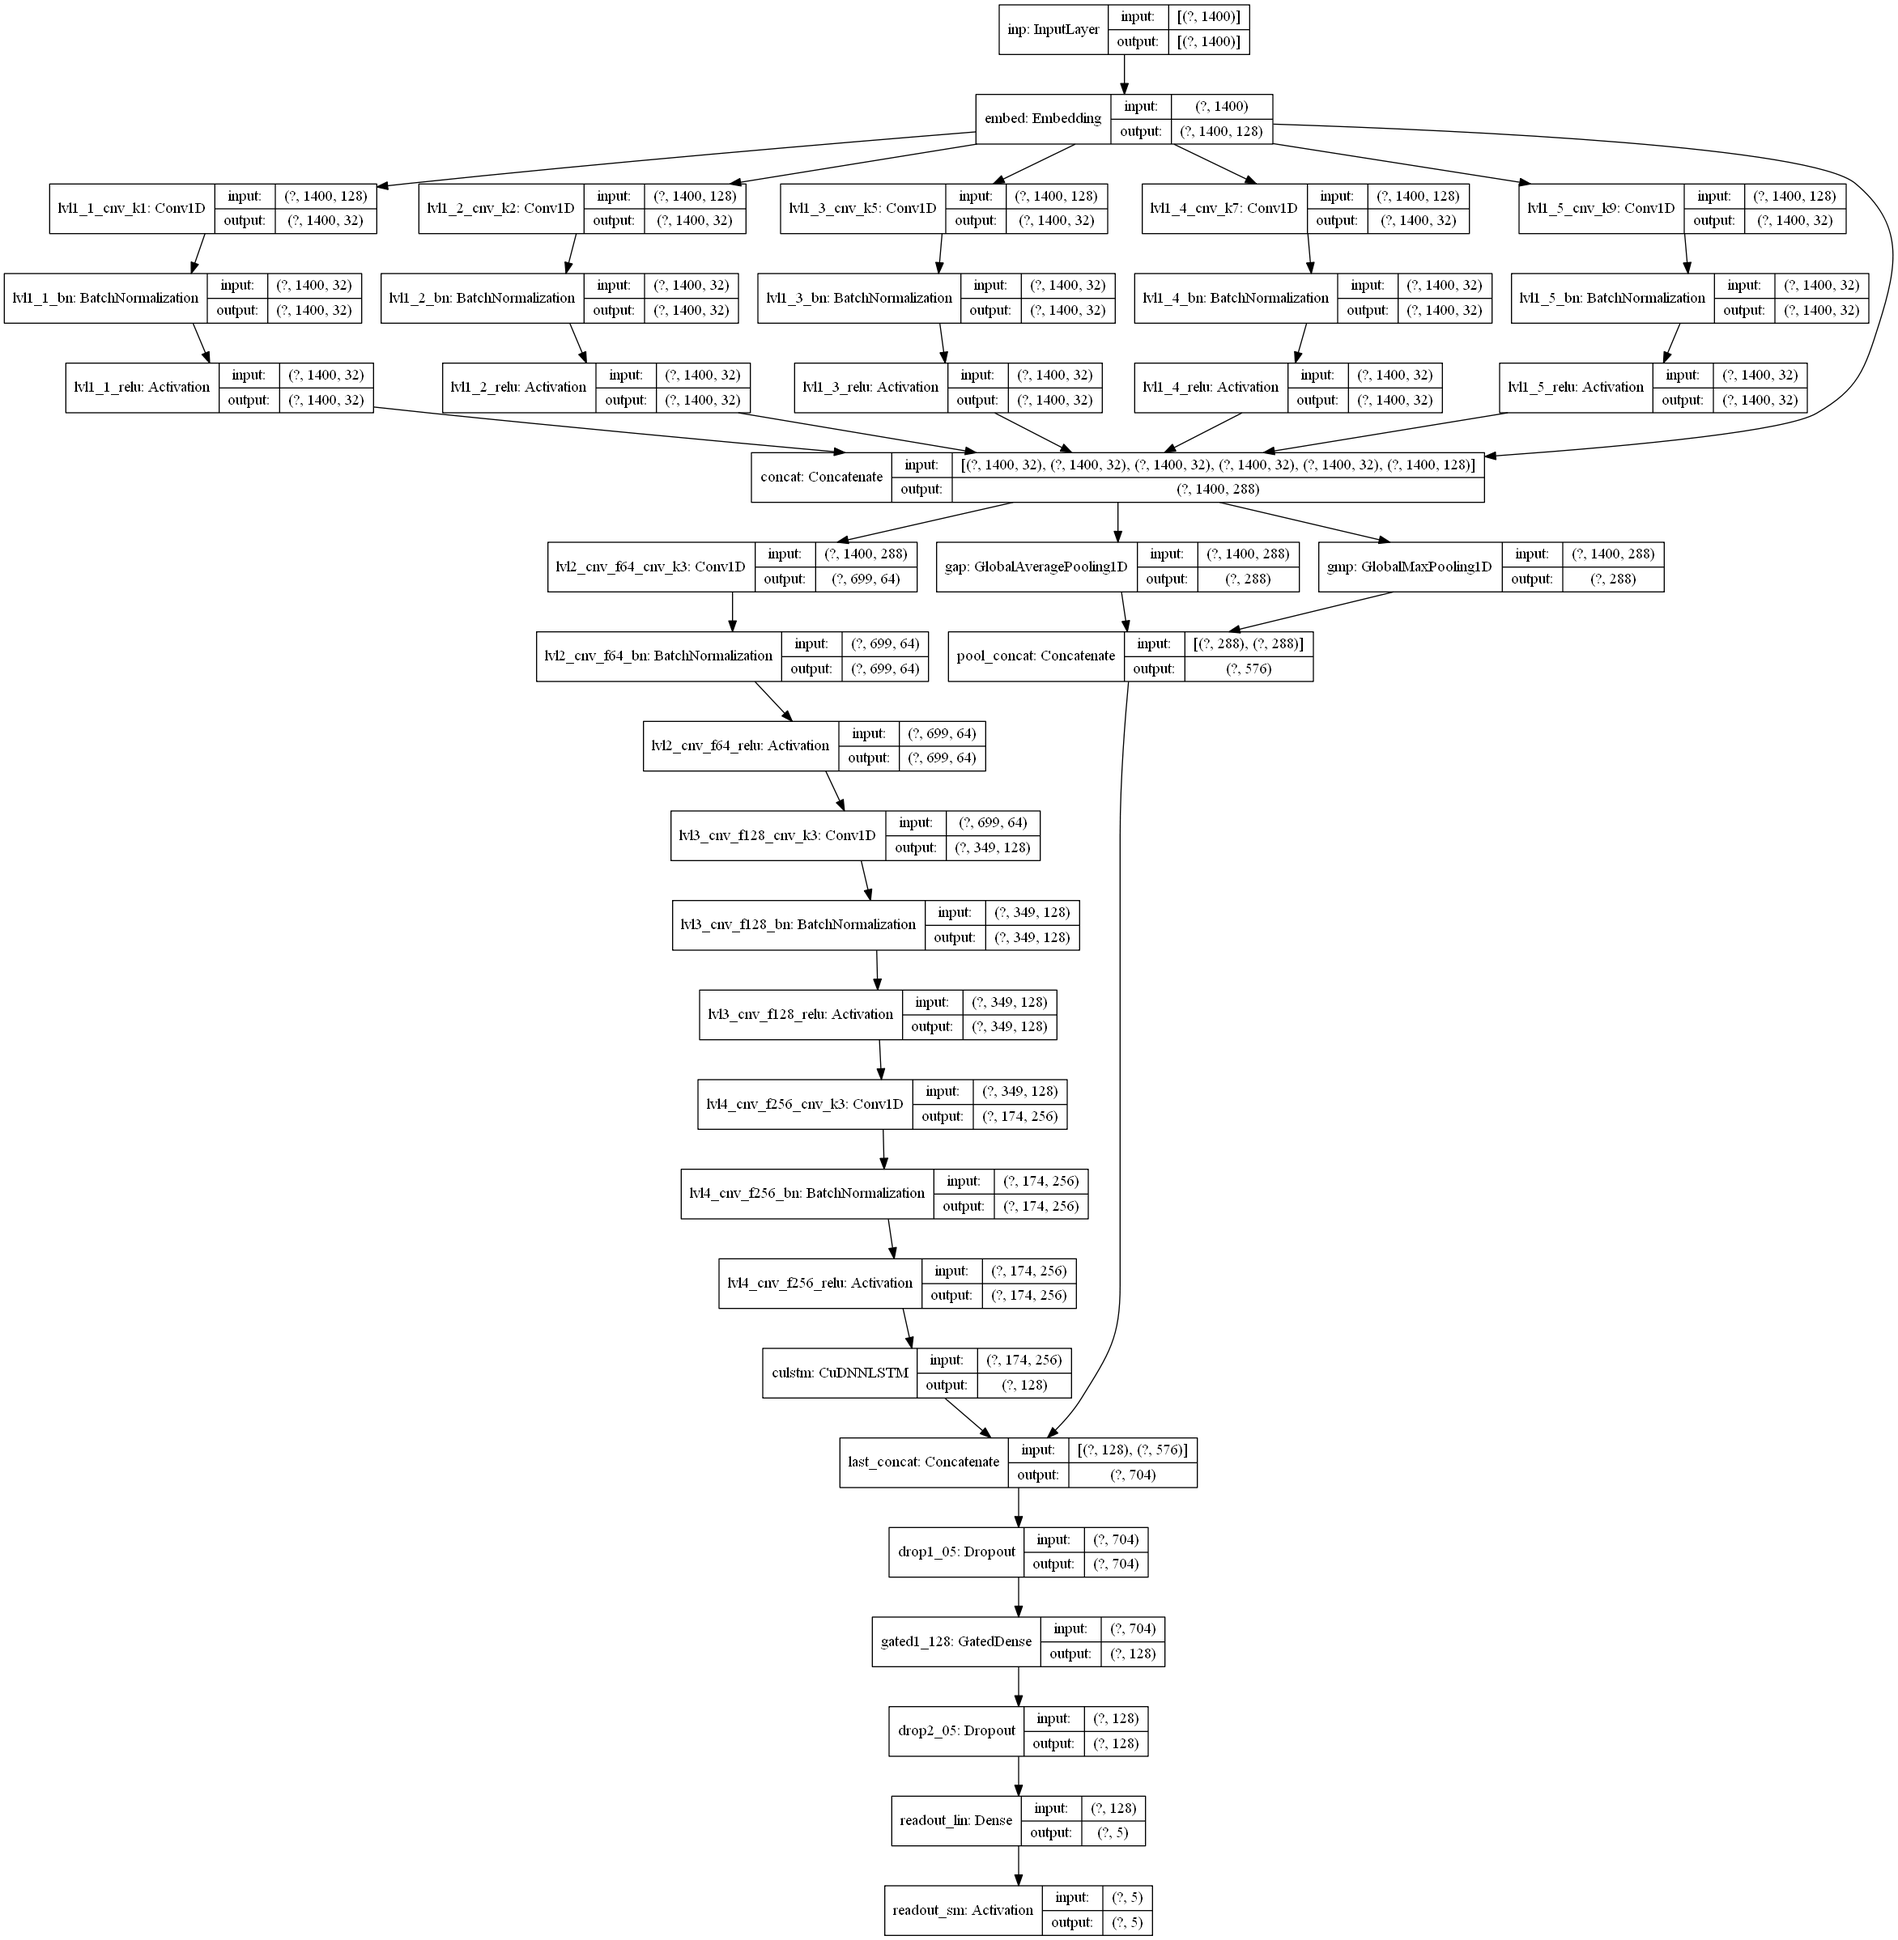
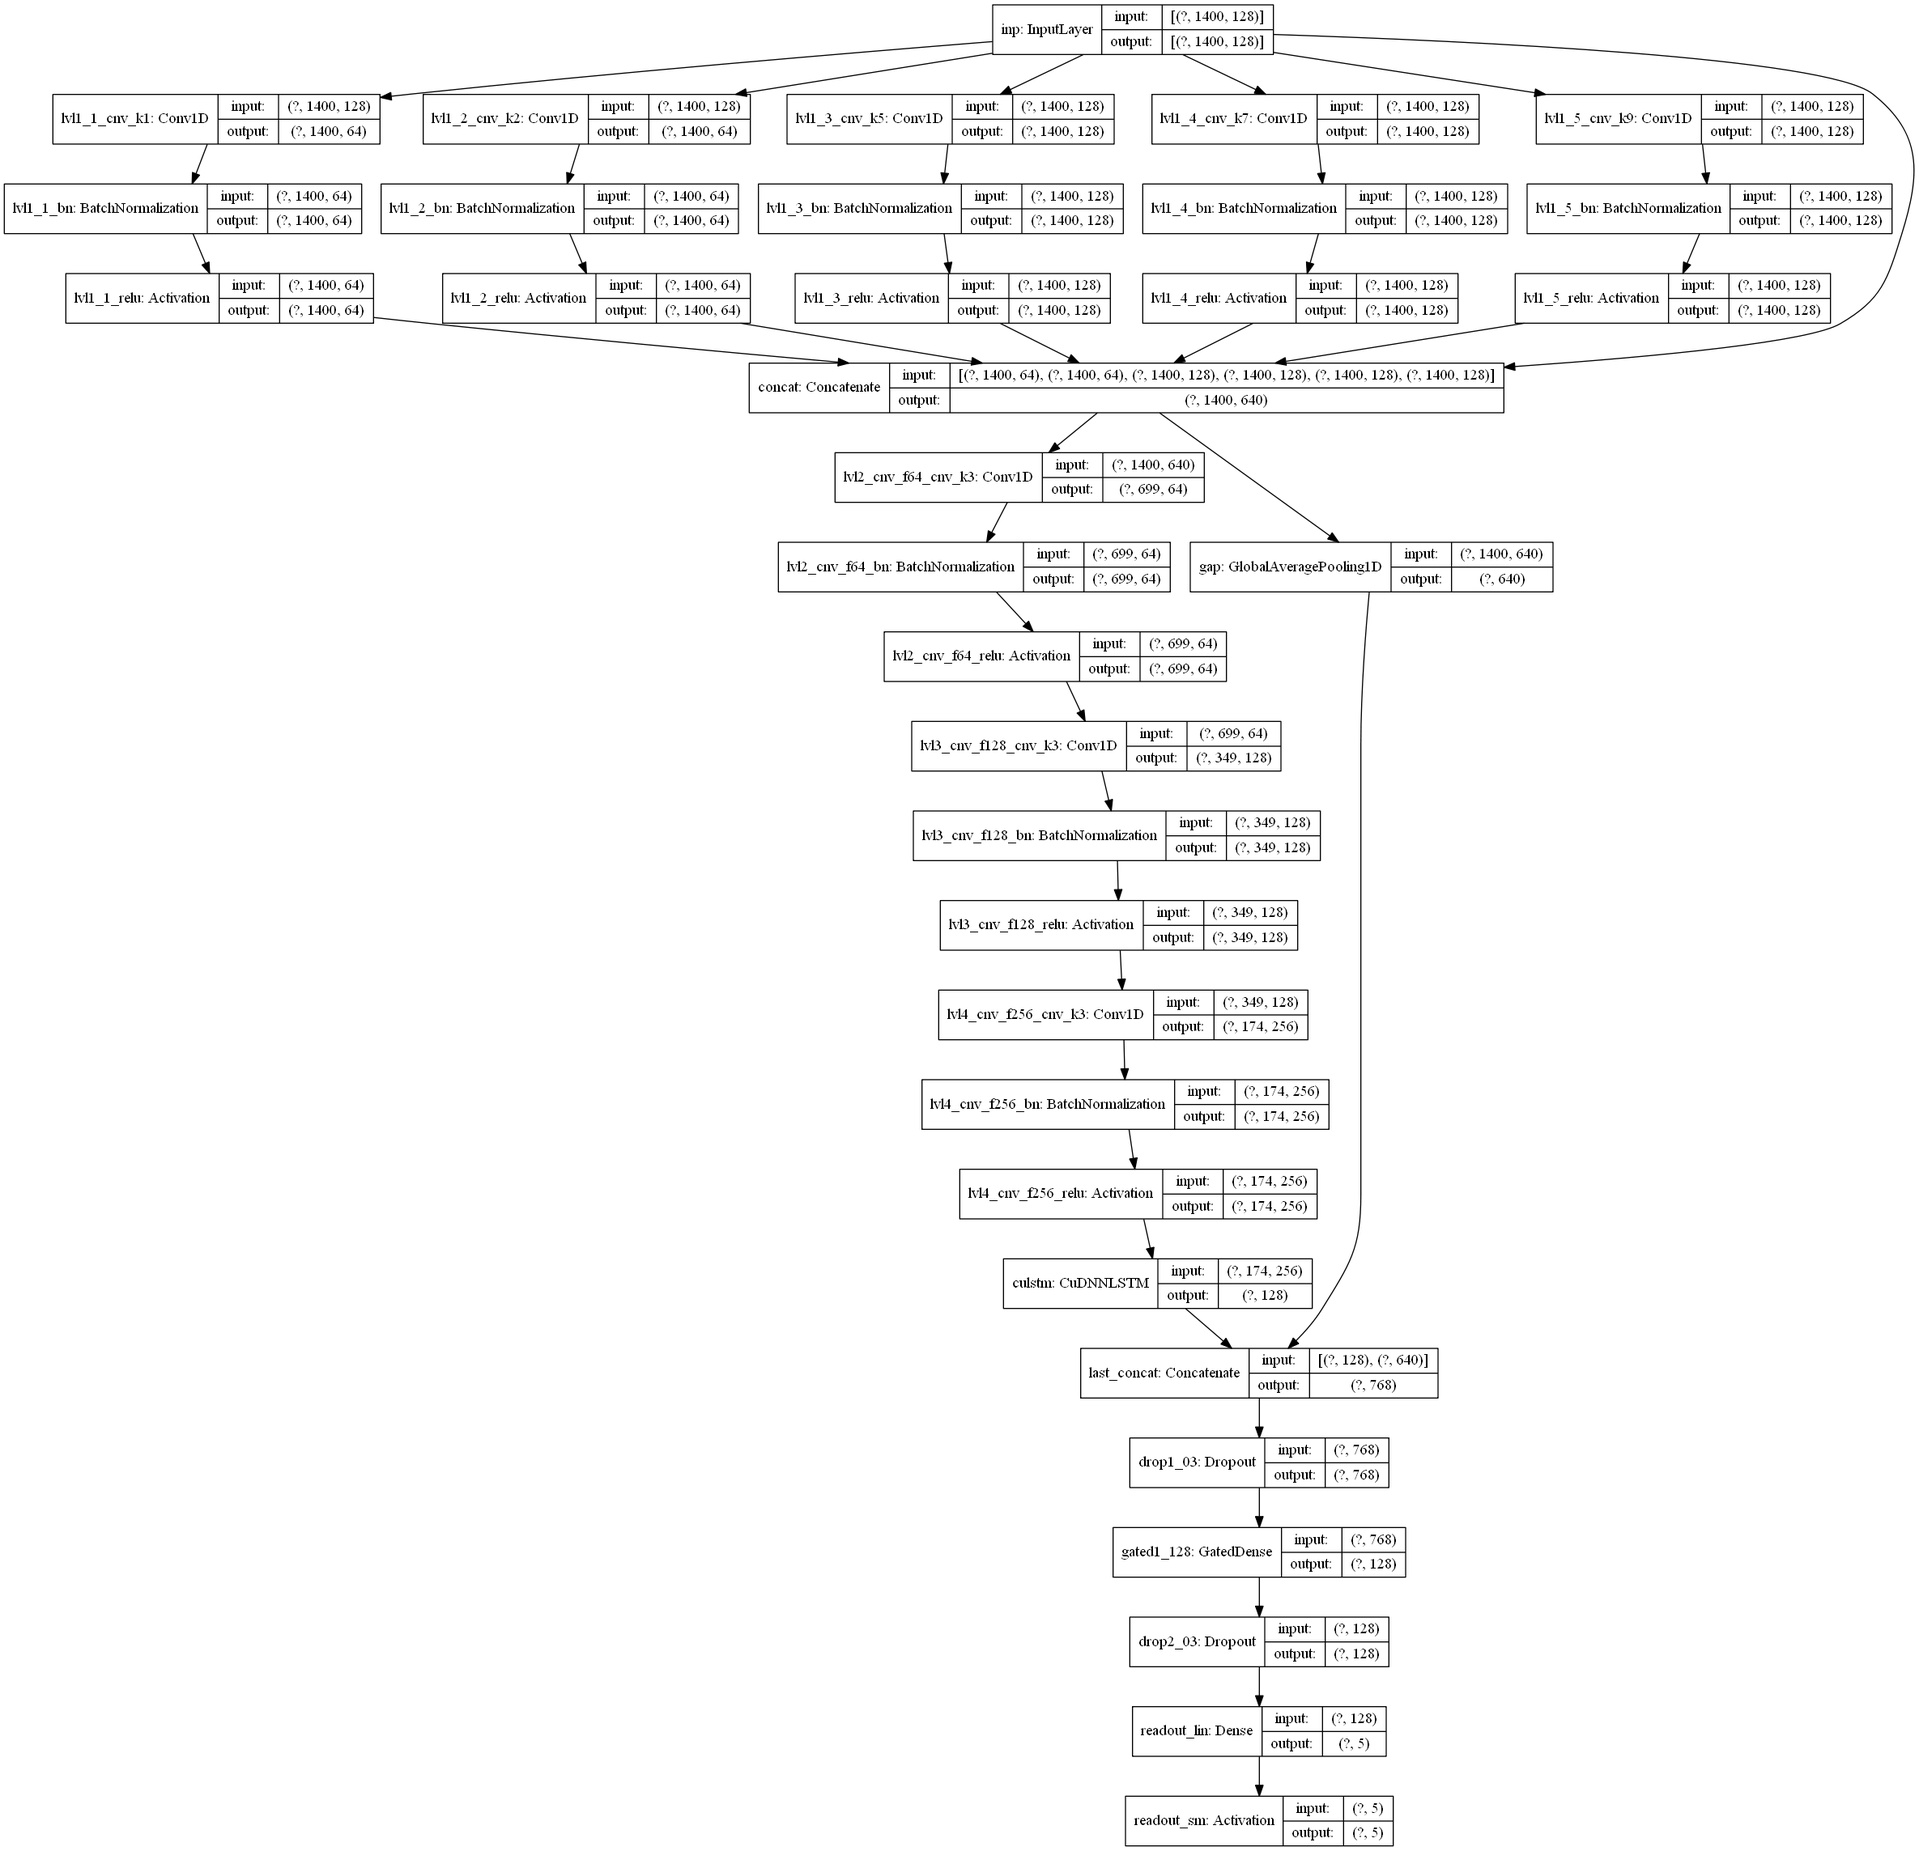
ready for grid search

Changed region(s): [[0.0, 0.0, 1.0, 1.0], [0.4672, 0.9314, 0.4983, 0.9624]]

diff --git a/tagger/brain/experiment_cvs.py b/tagger/brain/experiment_cvs.py
@@ -5,6 +5,9 @@ Created on Wed Feb 19 11:57:46 2020
 @author: damia
 """
 import numpy as np
+import tensorflow as tf
+
+import pandas as pd
 
 from libraries.logger import Logger
 from tagger.brain.cv_simple_model_generator import get_model, main_grid
@@ -12,6 +15,8 @@ from word_universe.doc_utils import DocUtils
 from functools import partial
 
 from libraries.training import Trainer
+
+from time import time
 
 
 def tokenizer(sentence, dct_vocab, unk_func=None):
@@ -80,11 +85,16 @@ def load_data(log, training_config):
 
 
 if __name__ == '__main__':
+  VER = '01'
+  
+  
+  base_name = 'ACV' + VER
+  
   
   USE_EMBEDS = False
   
   
-  l = Logger(lib_name='ACV', config_file='tagger/brain/configs/config_cv_test.txt')
+  l = Logger(lib_name=base_name, config_file='tagger/brain/configs/config_cv_test.txt')
   
   tokens_config = l.config_data['TOKENS']
   training_config = l.config_data['TRAINING']
@@ -174,44 +184,98 @@ if __name__ == '__main__':
           X = X_train_emb[start:end]
         else:
           X = X_train_smp[start:end]
-          y = y_train[start:end]
-        
+        y = y_train[start:end]        
         yield X, y
       #endfor
     #endwhile
   #end train_generator
   
-  grid_pos = l.get_grid_iterations(main_grid)
   
-  for itr, params in enumerate(grid_pos):
+  ######################
+  ######################
+  ## 
+  ## ALLWAYS SAME STRUCTURE - MUST WRAP THIS
+  ##
+  ######################
+  ######################
+  
+  dct_results = {'model': [], 'Dloss': [], 'Dacc': [], 
+                 'tacc' : [], 'tloss': [],
+                 'ep': []}
+  for k in main_grid.keys():
+    dct_results[k] = []  
     
+  nr_iters = 50
+  all_grid_iters = l.get_grid_iterations(main_grid)
+  grid_iters = np.random.choice(all_grid_iters, size=nr_iters, replace=False)
   
-  gen = train_generator()
+  nr_grid_iters = len(grid_iters)
+  lst_time = []
+  mean_time = np.inf
+  for idx, params in enumerate(grid_iters):
+    start = time()
+    model_name = base_name + '_{:03}'.format(idx + 1)
+    l.P("-"*40)
+    t_elapsed = idx * mean_time / 3600
+    t_remain = (nr_grid_iters - idx) * mean_time / 3600
+    t_total = t_elapsed + t_remain
+    
+    l.P("Start giter {}/{} {} - total/elapsed/remain: {:.1f}/{:.1f}/{:.1f} hrs (giter: {:.1f} mins)".format(
+        idx+1, nr_grid_iters, model_name, t_total, t_elapsed, t_remain, mean_time / 60))
+    
+    if params['diremb']:    
+      gen = train_generator(direct_embeds=True)
+      X_dev = X_dev_emb
+      X_train_sample = X_train_emb_sample
+    else:
+      gen = train_generator(direct_embeds=False)
+      X_dev = X_dev_smp
+      X_train_sample = X_train_smp_sample
+    
+    model = get_model(input_shape=X_dev.shape[1:],
+                      n_classes=y_train.max() + 1, 
+                      embeddings=np_embeds,
+                      name=model_name,
+                      use_gpu=True,
+                      log=l,
+                      **params
+                      )
   
-  name = 'CVClf'
-  model = get_model(input_shape=(max_size,),
-                    n_classes=y_train.max() + 1, 
-                    embeddings=np_embeds,
-                    name=name,
-                    use_gpu=False)
-
-  
-  trainer = Trainer(model_name=name,
-                    epochs=100,
-                    key='dev_acc',
-                    key_mode='max',
-                    stop_at_fails=30,
-                    threshold_progress=0,
-                    max_patience=5,
-                    max_cooldown=3,
-                    lr_decay=0.85,
-                    return_history=False,
-                    log=l)
-  
-  trainer.simple_train(model=model,
-                       train_gen=gen, steps_per_epoch=n_batches,
-                       X_test=X_dev, y_test=y_dev,
-                       X_train=X_train_sample, y_train=y_train_sample)
+    
+    trainer = Trainer(model_name=model_name,
+                      epochs=10,
+                      key='dev_acc',
+                      key_mode='max',
+                      stop_at_fails=20,
+                      threshold_progress=0,
+                      max_patience=7,
+                      max_cooldown=2,
+                      lr_decay=0.85,
+                      return_history=False,
+                      log=l)
+    
+    best_epoch, dct_vals = trainer.simple_train(model=model,
+                                                train_gen=gen, steps_per_epoch=n_batches,
+                                                X_test=X_dev, y_test=y_dev,
+                                                X_train=X_train_sample, y_train=y_train_sample)
+    
+    for k in params.keys():
+      dct_results[k].append(params[k])    
+    dct_results['model'].append(model_name)
+    dct_results['Dloss'].append(dct_vals['dev_loss'])
+    dct_results['Dacc'].append(dct_vals['dev_acc'])
+    dct_results['tloss'].append(dct_vals['train_loss'])
+    dct_results['tacc'].append(dct_vals['train_acc'])
+    dct_results['ep'].append(best_epoch)
+    
+    stop = time()
+    lap_time = stop - start
+    lst_time.append(lap_time)
+    mean_time = np.mean(lst_time)
+    l.P('Finished lap in {:.1f}s'.format(lap_time))
+    l.P("Results:\n{}".format(pd.DataFrame(dct_results).sort_values('Dacc')))
+    tf.keras.backend.clear_session()
+    del model
   
   
   

diff --git a/tagger/brain/cv_simple_model_generator.py b/tagger/brain/cv_simple_model_generator.py
@@ -34,7 +34,7 @@ main_grid = {
         ],
     
     "cols" : [
-        [(1, 64), (2, 64), (5, 128), (7, 128), (9, 128)],
+        [(1, 128), (2, 128), (5, 256), (7, 256), (9, 256)],
         [(1, 32), (2, 32), (5, 32), (7, 32), (9, 32)],
         [(1, 64), (3, 64), (7, 64)],
         ],
@@ -46,7 +46,9 @@ main_grid = {
     
     "fcs" : [
         [(128,True)],
-        [(128,True)],
+        [(128,False)],
+        [(256,True)],
+        [(256,False)],
         [],
         ],
         
@@ -60,28 +62,29 @@ main_grid = {
         "max",
         "both",
         ]
-        
-        
-    
-    
+
     }
   
 
 def get_model(input_shape, 
               n_classes,
+              log,
               embeddings=None, 
+              diremb=False,
               bn=True,
-              columns=[(1, 32), (2, 32), (5, 32), (7, 32), (9, 32)],
-              phase2=3,
+              cols=[(1, 32), (2, 32), (5, 32), (7, 32), (9, 32)],
+              ph2=3,
               fcs=[(128,True)],              
               act='relu',
               pool='both',
               name='',
-              drop=0.5,
+              drp=0.5,
               use_gpu=True,
               ):
+  
+  tf.keras.backend.clear_session()
+  
   drop_id = 0
-  use_embeds = embeddings is not None
   model = None
   
   if use_gpu:
@@ -91,7 +94,7 @@ def get_model(input_shape,
   
   tf_inp = tf.keras.layers.Input(input_shape, name='inp')
   tf_x = tf_inp
-  if use_embeds:
+  if not diremb:
     VOCAB_SIZE = embeddings.shape[0]
     EMBED_SIZE = embeddings.shape[1]
     _init = tf.keras.initializers.Constant(embeddings)
@@ -102,7 +105,7 @@ def get_model(input_shape,
   out_columns = []
   level = 1
   tf_column_input = tf_x
-  for i,col in enumerate(columns):
+  for i,col in enumerate(cols):
     f = col[1]
     k = col[0]
     _name = 'lvl{}_{}'.format(level, i+1)
@@ -121,7 +124,7 @@ def get_model(input_shape,
     tf_x_pool = tf.keras.layers.concatenate([tf_x_pool1, tf_x_pool2], name='pool_concat')
   
   # phase 2 conv
-  for i in range(phase2):
+  for i in range(ph2):
     level += 1
     f = 2**(6+i)
     tf_x = conv1d(tf_x, f=f,  k=3, s=2, bn=bn, act=act, 
@@ -131,9 +134,9 @@ def get_model(input_shape,
   
   tf_x = tf.keras.layers.concatenate([tf_x, tf_x_pool], name='last_concat')
   
-  if drop > 0:
+  if drp > 0:
     drop_id += 1
-    tf_x = tf.keras.layers.Dropout(rate=drop, name='drop{}_{}'.format(drop_id, drop).replace('.',''))(tf_x)
+    tf_x = tf.keras.layers.Dropout(rate=drp, name='drop{}_{}'.format(drop_id, drp).replace('.',''))(tf_x)
   
   for i, lyr in enumerate(fcs):
     units= lyr[0]
@@ -143,10 +146,10 @@ def get_model(input_shape,
     else:
       tf_x = tf.keras.layers.Dense(units, name='lin{}_{}'.format(i+1, units))(tf_x)
       tf_x = tf.keras.layers.Activation(act, name='lin{}_{}'.format(i+1, act))(tf_x)
-    if drop > 0:
+    if drp > 0:
       drop_id += 1
-      tf_x = tf.keras.layers.Dropout(rate=drop, 
-                                     name='drop{}_{}'.format(drop_id, drop).replace('.',''))(tf_x)
+      tf_x = tf.keras.layers.Dropout(rate=drp, 
+                                     name='drop{}_{}'.format(drop_id, drp).replace('.',''))(tf_x)
   
   tf_x = tf.keras.layers.Dense(n_classes, name='readout_lin')(tf_x)
   tf_x = tf.keras.layers.Activation('softmax', 
@@ -155,9 +158,7 @@ def get_model(input_shape,
   model = tf.keras.models.Model(tf_inp, tf_out, name=name)
   model.compile(loss='sparse_categorical_crossentropy', metrics=['acc'],
                 optimizer='nadam')
-  tf.keras.utils.plot_model(model, 
-                            'tagger/brain/test.png',
-                            show_shapes=True)
+  log.plot_keras_model(model, name)
     
   return model  
 
